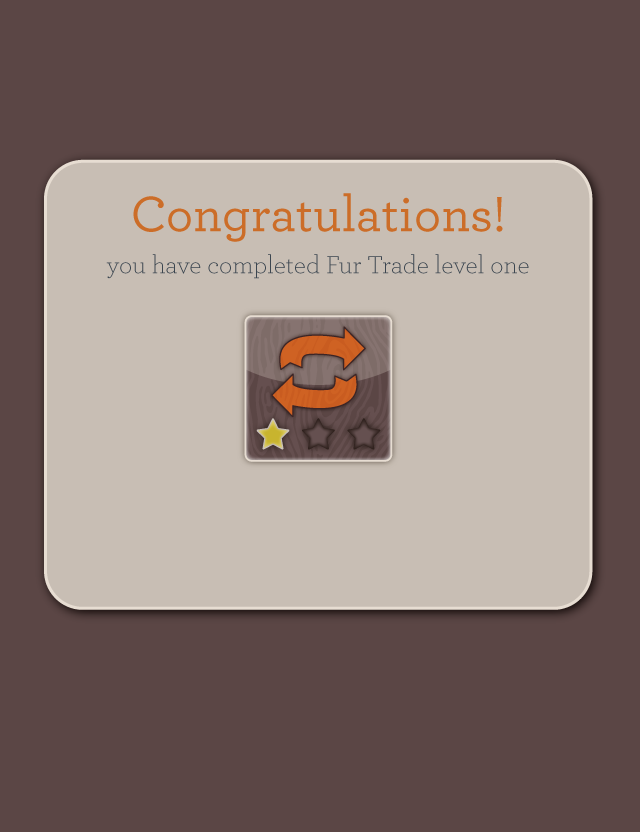
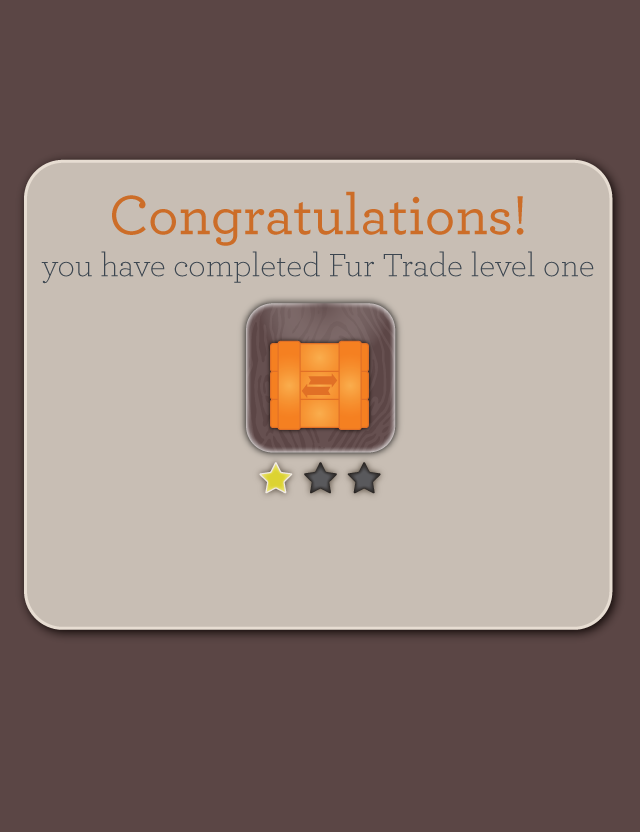
fur trade UI 2.0

Changed region(s): [[0.0312, 0.1875, 0.9688, 0.7812]]

diff --git a/fur_trade_november_2012/style.css b/fur_trade_november_2012/style.css
@@ -170,10 +170,18 @@ body
 #inventoryBackground
 {
     display:block;
-    height:359px;
-    margin:0px auto;
+    /*height:359px;*/
+    width:320px;
     position:relative;
-    top:30px;
+}
+
+#inventoryIdentifier
+{
+    display:block;
+    width:198px;
+    position:absolute;
+    top:0px;
+    left:20px;
 }
 
 #needTable
@@ -184,7 +192,7 @@ body
     margin:0px auto;
     padding:0px;
     border:0px;
-    top:-485px;
+    top:-550px;
 }
 
 #needTable td
@@ -204,9 +212,9 @@ body
 {
     padding-top:10px;
     width:270px;
-    height:188px;
+    height:202px;
     position:relative;
-    top:-176px;
+    top:-230px;
     margin:0px auto;
     overflow:scroll;
     -webkit-overflow-scroll:touch;

diff --git a/fur_trade_november_2012/index.html b/fur_trade_november_2012/index.html
@@ -283,6 +283,7 @@ function confirmInit()
         }
     }
     document.getElementById('roleContent').src = "images/roles/splash/"+player.description.imageName;
+    document.getElementById('inventoryIdentifier').src = "images/roles/indicator/"+player.description.imageName;
     setScene(sceneIdRole);
 }
 
@@ -400,6 +401,7 @@ function constructBumpString()
 <!-- Trade State -->    
 <div id="trade" class="scene"> 
     <img id="inventoryBackground" src="images/core/inventory_background.png"/>
+    <img id="inventoryIdentifier" />
     <div id="inventorytable">
     </div>
     <table id="needTable">

diff --git a/fur_trade_november_2012/utils/arisjs.js b/fur_trade_november_2012/utils/arisjs.js
@@ -23,15 +23,13 @@ var ARISJS = function()
         if(this.requestsQueue.length) 
         {
             var req = this.requestsQueue.shift();
-            setTimeout(100,window.location = req);
+            //setTimeout(100,window.location = req);
 
             /* DEBUG - uncomment to use in browser without error */
-            /*
             this.isCurrentlyCalling();
             if(req == "aris://inventory/get/" + 99999999)
                 this.didUpdateItemQty(99999999,1);
             this.isNotCurrentlyCalling();
-            */
         }
     }
 
